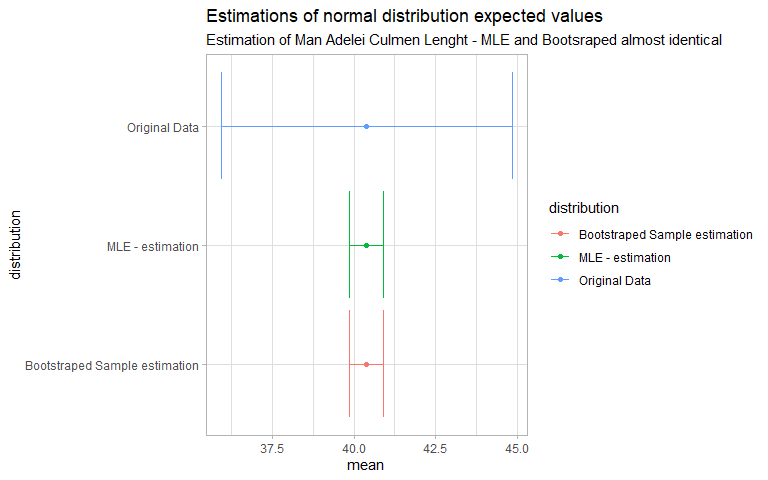
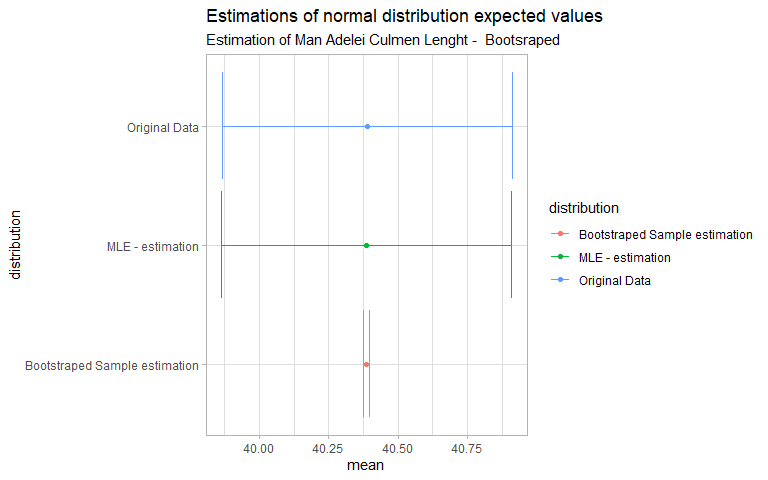
reademe update

diff --git a/Palmer-Penguins.md b/Palmer-Penguins.md
@@ -1,4 +1,4 @@
-Palmer Penguins - Bootstraping and Logistic regression
+Palmer Penguins - Bootstraping
 ================
 Petr Hrobař
 2020-07-31
@@ -956,7 +956,8 @@ conf_intervals_original_data <-
   group_by(species, sex) %>% 
   summarise(mean = mean(culmen_length_mm),
             sd = sd(culmen_length_mm),
-            count = n()) %>% 
+            count = n(), 
+            sd = sd/(sqrt(count))) %>% 
   mutate(conf.low = mean - (qnorm(0.975) * sd),
          conf.high = mean + (qnorm(0.975) * sd))
 
@@ -966,7 +967,8 @@ conf_intervals_boot_data <-
   group_by(species, sex) %>% 
   summarise(mean = mean(culmen_length_mm),
             sd = sd(culmen_length_mm),
-            count = n()) %>% 
+            count = n(), 
+            sd = sd/(sqrt(count))) %>% 
   mutate(conf.low = mean - (qnorm(0.975) * sd),
          conf.high = mean + (qnorm(0.975) * sd))
 
@@ -980,13 +982,13 @@ ci_merged <-
 # levels(as.factor(ci_merged$distribution))
 # ci_merged$distribution = factor(ci_merged$distribution, levels = c("Original Data", "Bootstraped Sample estimation"))
 # 
-# ci_merged %>% 
-#   filter(sex == "Male") %>% 
-#   ggplot(aes(mean, species, color = species)) + 
-#   geom_point(size = 3) + 
-#   geom_errorbar(aes(xmin = conf.low, xmax = conf.high), size = 1) + 
-#   facet_wrap(~distribution, ncol = 1) + 
-#   geom_vline(aes(xintercept = mean, color = species), lty = 2, size = 1) + 
+# ci_merged %>%
+#   filter(sex == "Male") %>%
+#   ggplot(aes(mean, species, color = species)) +
+#   geom_point(size = 3) +
+#   geom_errorbar(aes(xmin = conf.low, xmax = conf.high), size = 1) +
+#   facet_wrap(~distribution, ncol = 1) +
+#   geom_vline(aes(xintercept = mean, color = species), lty = 2, size = 1) +
 #   labs(title = "Bootstraped ")
 ```
 
@@ -1012,7 +1014,7 @@ bind_rows(mle_vals, boot_vals) %>%
   geom_point() +
   geom_errorbar(aes(xmin = conf.low, xmax = conf.high)) + 
   labs(title = "Estimations of normal distribution expected values", 
-       subtitle = "Estimation of Man Adelei Culmen Lenght - MLE and Bootsraped almost identical")
+       subtitle = "Estimation of Man Adelei Culmen Lenght -  Bootsraped ")
 ```
 
 ![](Palmer-Penguins_files/figure-gfm/unnamed-chunk-13-1.png)<!-- -->
